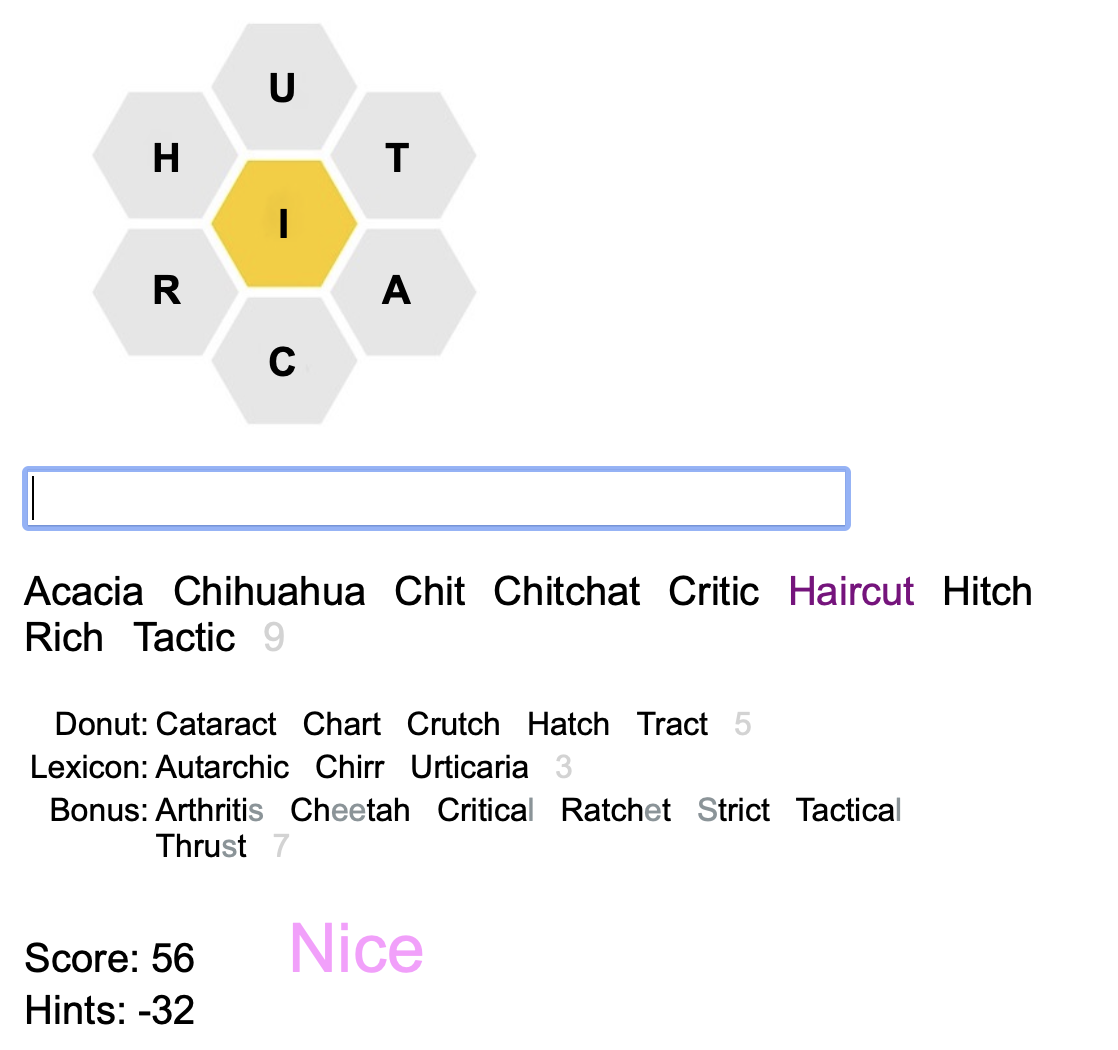
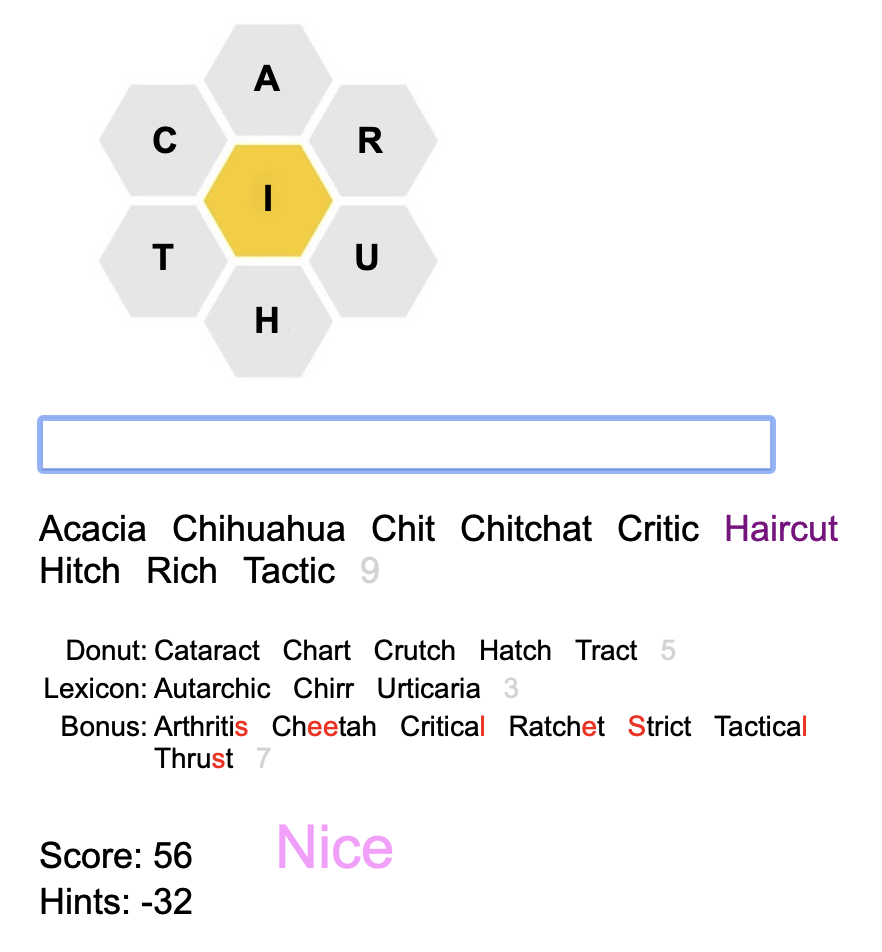
back to red for bonus letters

diff --git a/nytbee/help.html b/nytbee/help.html
@@ -398,6 +398,11 @@ remember the words.  If you keep doing this your <a href=#hint_ratio>hint ratio<
 <li>Find as many <a href='#donut'>Donut</a> words as you can.
 There is, of course, no 'official' list of
 these words but you can tell your friends about how many you found.
+You can also search for Lexicon and Bonus words and get Hint Credits.
+Accumulating hint credits is like having money in the bank.
+You can spend them on 
+definitions, reveals, and showing the
+Hint Table and Two Letter List.
 <li>A different kind of activity is to find all the words in today's puzzle
 (however you wish, even with the <span class=cmd>G YP</span> command &#128522;) and
 then add some clever inventive <a href=#clues>clues</a>.
@@ -530,13 +535,13 @@ In this puzzle from November 13, 2022:
 <p style="margin-left: .4in">
 <img src=pics/22-11-13.png width=300>
 <p>
-the words VICINIT<span class=darkgray>Y</span> and INCITE<span class=darkgray>M</span>ENT are Bonus words which use an extra Y and M respectively.
+the words VICINIT<span class=red1>Y</span> and INCITE<span class=red1>M</span>ENT are Bonus words which use an extra Y and M respectively.
 Bonus words must appear either in the large lexicon or in the list of previous
 NYT Puzzle words.
 A <span class=green>Bonus Pangram</span> is one that uses all 7 letters plus the extra one.
 A <span class=purple>Perfect Bonus Pangram</span> is exactly 8 letters long.
-The extra letter <i>can</i> be an <span class=darkgray style="font-size: 20pt">S</span> (finally!).
-<span class=darkgray>S</span>CIENCE is another Bonus word for the above puzzle. 
+The extra letter <i>can</i> be an <span class=red1 style="font-size: 20pt">S</span> (finally!).
+<span class=red1>S</span>CIENCE is another Bonus word for the above puzzle. 
 Note that very few plurals occur in the large lexicon and that
 many words ending in ING and ED are absent as well.
 <h3>Hint Credits</h3>
@@ -559,7 +564,7 @@ In the above puzzle we have:
 (5 * -1) + (3 * -2) + (7 * -3) = -32
 </ul>
 When the puzzle status is graphical negative hints are colored
-in <span style="color: red">red</span>.
+in <span class=red1>red</span>.
 <p>
 Finally, note that the minus command (hyphen, dash, '-') which is
 used to remove words from the found list will add hints back if you

diff --git a/nytbee/css/style.css b/nytbee/css/style.css
@@ -38,6 +38,9 @@ td, th {
     color: red;
     font-weight: bold;
 }
+.red1 {
+    color: red;
+}
 a {
     color: blue;
     text-decoration: none;
